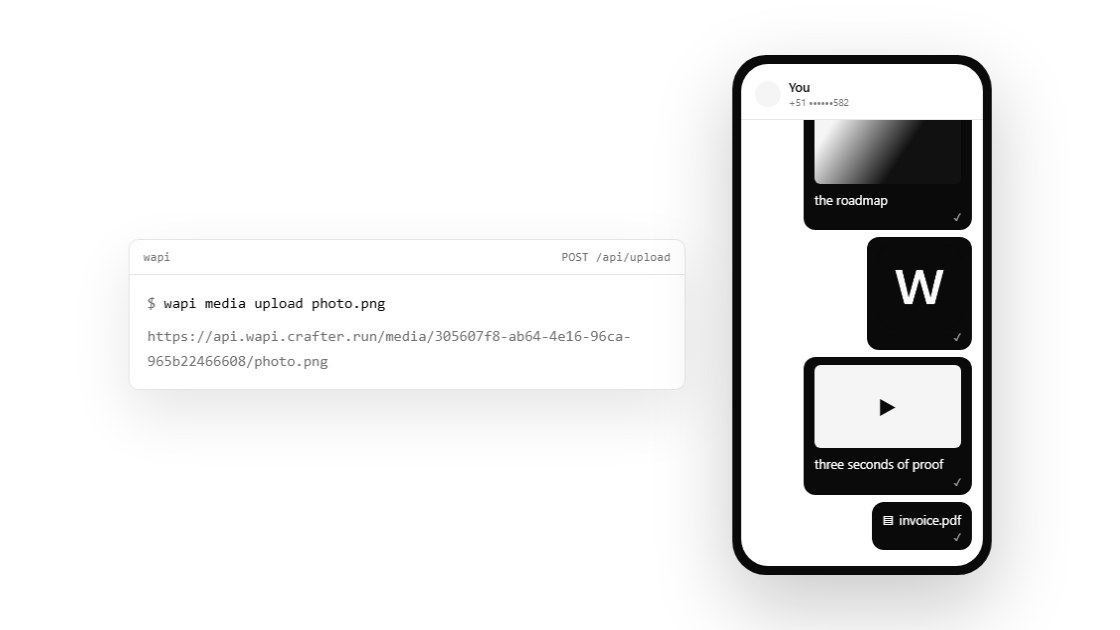
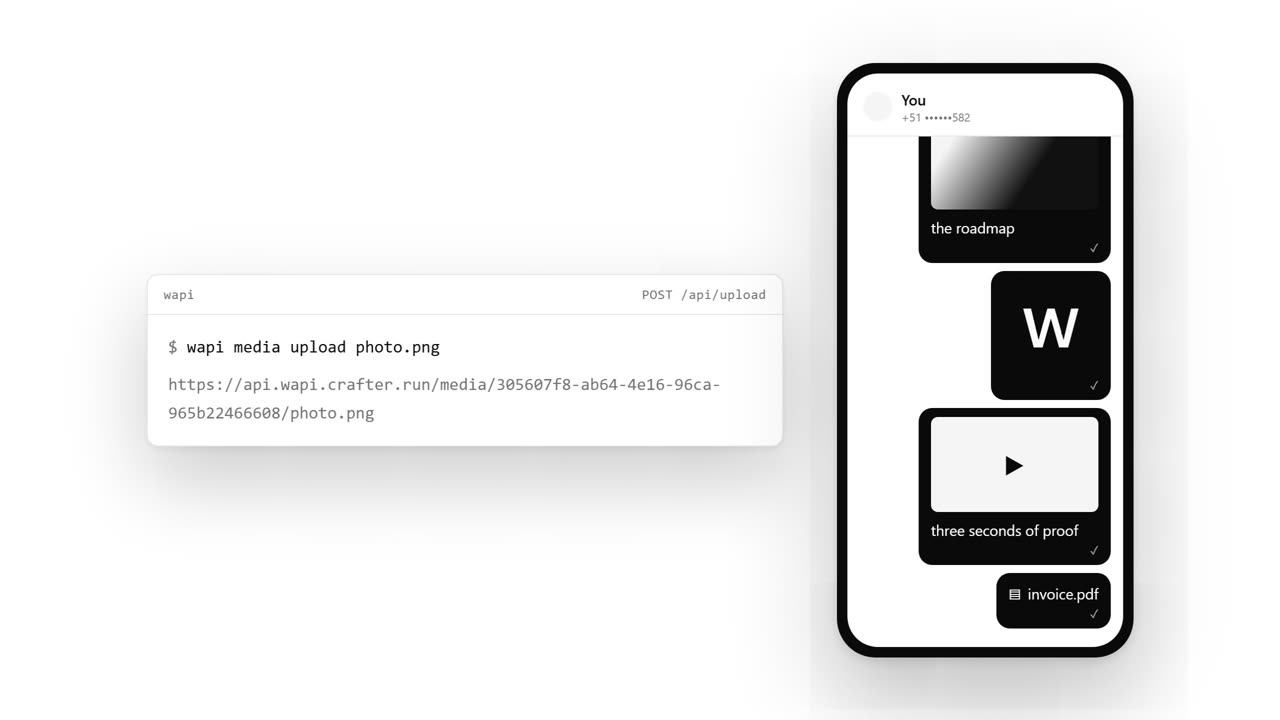
fix(video): clean audio, 2K, full-bleed opening, and an end card you can read
The audio sounded like garbage because it was encoded twice. Remotion wrote the
muxed file's audio as AAC at **96 kHz** — not a delivery rate — and the old
mastering script decoded that, applied about 10 dB of gain, and encoded to AAC
again. Two lossy generations with a large gain between them amplifies every
artifact the first one introduced, and single-pass loudnorm is dynamic, so it
pumped the bed under every key click as well.

Now the audio is rendered on its own as 48 kHz PCM, measured, normalised
**linearly** in a second pass, and encoded once onto a video stream that is
copied rather than re-encoded. Result: -16.0 LUFS, peak -1.9 dBFS, zero clipped
samples of 624k.

2560x1440, via --scale on the existing 1120x630 composition — exact, and it
keeps every layout number tuned against the size it was designed at. The landing
capture is re-shot at 2x, because the film now opens on it full bleed and a
1440px capture upscaled 1.8x is a blurry first impression. `--landing-only` lets
that be re-shot without sending another round of real WhatsApp messages.

The opening fills the frame. It was an 820px tilted plane, which read as a
screenshot of a website rather than as the website.

Panels have real shadows. The old one was 10% opacity against white — invisible,
so the terminals looked printed on the background rather than above it.

The end card leads with wapi.crafter.run at 78px, which is the one thing the
[…]

diff --git a/apps/video/src/Demo.tsx b/apps/video/src/Demo.tsx
@@ -134,37 +134,30 @@ const LandingScene: React.FC<{ durationInFrames: number }> = ({ durationInFrames
    * one — measured at 28px left at the original 10deg. Softening the angle halves that, and the
    * remainder is corrected here rather than left to look like a framing mistake.
    */
-  const yaw = interpolate(frame, [0, durationInFrames], [6, 2]);
-  const z = interpolate(frame, [0, durationInFrames], [-360, -180]);
-  const nudge = interpolate(frame, [0, durationInFrames], [16, 6]);
+  /*
+   * Full bleed, with a slow push in.
+   *
+   * This was a tilted 820px plane floating in the middle of the frame, which read as a screenshot
+   * of a website rather than as the website. Filling the frame means the film opens *in* the
+   * product. The only motion left is a gentle scale and the pan, because a full-bleed plane has no
+   * edges for a rotation to describe — it would just shear the picture.
+   */
+  const scale = interpolate(frame, [0, durationInFrames], [1.06, 1.0]);
   const fade = interpolate(frame, [0, 18], [0, 1], { extrapolateRight: "clamp" });
 
   return (
-    /*
-     * Framed, because a white page on a white ground has no edge.
-     *
-     * Without the border and shadow this scene read as loose text floating off-centre rather than
-     * as a website — there was nothing to tell the eye where the page stopped and the film's
-     * background began. The same chrome as the terminal panels, so the two beats look like parts of
-     * one piece.
-     */
-    <div
+    <AbsoluteFill
       style={{
-        border: `1px solid ${theme.border}`,
-        borderRadius: theme.radius,
-        boxShadow: "0 30px 70px rgba(10,10,10,0.12)",
-        height: 470,
         opacity: fade,
         overflow: "hidden",
-        transform: `translateX(${nudge}px) translateZ(${z}px) rotateY(${yaw}deg)`,
-        width: 820,
+        transform: `scale(${scale})`,
       }}
     >
       <Img
         src={staticFile("captures/landing.jpg")}
         style={{ display: "block", transform: `translateY(${y}px)`, width: "100%" }}
       />
-    </div>
+    </AbsoluteFill>
   );
 };
 
@@ -249,25 +242,48 @@ const SplitScene: React.FC<{
   );
 };
 
-/** Flat and still, on purpose: the one frame somebody might pause on should not be moving. */
+/**
+ * The end card.
+ *
+ * The URL is the largest thing in the film, and deliberately larger than the line above it: it is
+ * the one piece of information the whole 78 seconds exists to hand over, and it was previously set
+ * smaller than the strapline and easy to miss entirely.
+ *
+ * Flat and still, because this is the frame somebody might pause on.
+ */
 const EndCard: React.FC = () => {
   const frame = useCurrentFrame();
-  const fade = interpolate(frame, [0, 20], [0, 1], { extrapolateRight: "clamp" });
-  // The credit follows the card rather than arriving with it, so the last thing read is the name.
-  const credit = interpolate(frame, [26, 46], [0, 1], {
+  const { fps } = useVideoConfig();
+  const fade = interpolate(frame, [0, 18], [0, 1], { extrapolateRight: "clamp" });
+  // The URL lands after the line above it, so the eye arrives at it rather than starting there.
+  const url = spring({ config: { damping: 200 }, durationInFrames: 26, fps, frame: frame - 14 });
+  // The credit follows, so the last thing read is who made it.
+  const credit = interpolate(frame, [46, 68], [0, 1], {
     extrapolateLeft: "clamp",
     extrapolateRight: "clamp",
   });
 
   return (
-    <div style={{ opacity: fade, textAlign: "center" }}>
-      <div style={{ fontSize: 46, letterSpacing: "-0.03em" }}>
+    <div style={{ textAlign: "center" }}>
+      <div style={{ fontSize: 34, letterSpacing: "-0.02em", opacity: fade }}>
         WhatsApp over HTTP,{" "}
         <span style={{ fontFamily: font.serif, fontStyle: "italic" }}>on your own box.</span>
       </div>
-      <div style={{ color: theme.mutedForeground, fontSize: 20, marginTop: 22 }}>
+
+      <div
+        style={{
+          fontSize: 78,
+          fontWeight: 600,
+          letterSpacing: "-0.045em",
+          lineHeight: 1.05,
+          marginTop: 26,
+          opacity: url,
+          transform: `translateZ(${interpolate(url, [0, 1], [-160, 0])}px)`,
+        }}
+      >
         wapi.crafter.run
       </div>
+
       <div
         style={{
           background: theme.muted,
@@ -275,38 +291,40 @@ const EndCard: React.FC = () => {
           borderRadius: theme.radius,
           display: "inline-block",
           fontFamily: font.mono,
-          fontSize: 15,
-          marginTop: 24,
-          padding: "10px 16px",
+          fontSize: 16,
+          marginTop: 28,
+          opacity: url,
+          padding: "10px 18px",
         }}
       >
         wapi login
       </div>
 
       {/*
-        The credit, arriving after the card has settled.
-
-        The mark is used as it is drawn — yellow on near-black — rather than flattened to match the
-        film's achromatic palette. It is somebody's logo, not a design element to restyle, and one
-        spot of colour in the last five seconds reads as a signature rather than as a break.
+        The credit, at a size somebody can actually see.
+        
+        It was 30px in the last few seconds and read as a footnote — near enough to absent that it
+        was reported as missing. The mark is used as it is drawn, yellow on near-black, rather than
+        flattened to the film's achromatic palette: it is somebody's logo, not a design element to
+        restyle, and one spot of colour at the very end reads as a signature.
       */}
       <div
         style={{
           alignItems: "center",
-          color: theme.mutedForeground,
           display: "flex",
-          fontSize: 15,
-          gap: 10,
+          gap: 14,
           justifyContent: "center",
-          marginTop: 40,
+          marginTop: 52,
           opacity: credit,
         }}
       >
         <Img
           src={staticFile("assets/crafter-station.png")}
-          style={{ borderRadius: 7, display: "block", height: 30, width: 30 }}
+          style={{ borderRadius: 11, display: "block", height: 50, width: 50 }}
         />
-        <span>A product from Crafter Station</span>
+        <span style={{ color: theme.mutedForeground, fontSize: 19 }}>
+          A product from Crafter Station
+        </span>
       </div>
     </div>
   );

diff --git a/apps/video/src/components/Terminal.tsx b/apps/video/src/components/Terminal.tsx
@@ -95,8 +95,13 @@ export const Terminal: React.FC<{
         background: theme.card,
         border: `1px solid ${theme.border}`,
         borderRadius: theme.radius,
-        // A single soft shadow, not a stack: depth here comes from the camera, not from CSS.
-        boxShadow: "0 24px 60px rgba(10,10,10,0.10)",
+        /*
+         * Two shadows: a tight one that reads as a lifted edge, and a wide soft one that puts the
+         * panel above the page. The single 10%-opacity shadow this replaced was invisible against
+         * a white ground, so the terminals looked printed onto the background rather than floating
+         * over it.
+         */
+        boxShadow: "0 2px 6px rgba(10,10,10,0.06), 0 28px 70px rgba(10,10,10,0.22)",
         fontFamily: font.mono,
         overflow: "hidden",
         width,

diff --git a/apps/video/src/components/Phone.tsx b/apps/video/src/components/Phone.tsx
@@ -198,7 +198,7 @@ export const Phone: React.FC<{
     style={{
       background: "#0a0a0a",
       borderRadius: 34,
-      boxShadow: "0 30px 80px rgba(10,10,10,0.22)",
+      boxShadow: "0 3px 8px rgba(10,10,10,0.10), 0 34px 90px rgba(10,10,10,0.30)",
       height: 520,
       padding: 9,
       width: 262,
